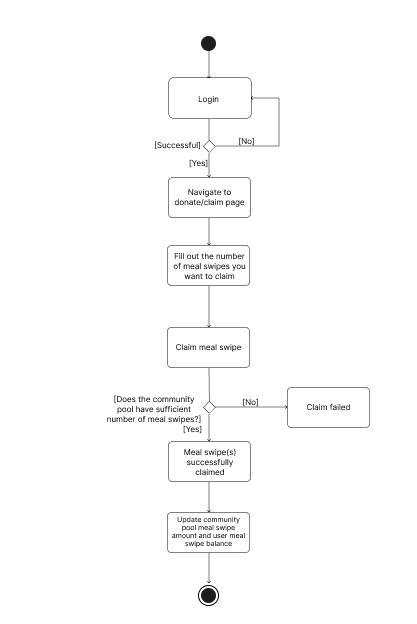
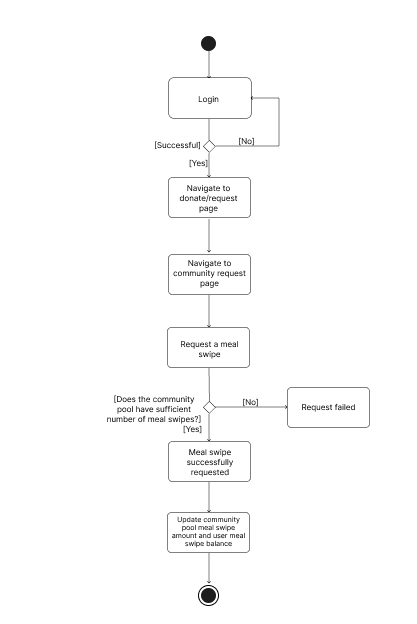
updated uml diagrams and user stories in readme

diff --git a/README.md b/README.md
@@ -46,7 +46,7 @@ This app should be a simple tool, capable of P2P sending and P2E donating of mea
 
 - As an NYU student, I want to donate meal swipes to the whole NYU community so that others can get a meal if needed.
 
-- As an NYU student, I want to individually send meal swipes to friends so that they can have more meals when hungry. 
+- As an NYU student, I want to individually send meal swipes to friends so that they can have more meals when hungry.
 
 - As a community-driven student, I want to see the amount of donations so that other students and I are more encouraged to make more donations to help others.
 
@@ -56,11 +56,11 @@ This app should be a simple tool, capable of P2P sending and P2E donating of mea
 
 - As an NYU student, I want to have a tool that tells me if I have enough meal swipes for the rest of the semester based on my past spending history so that I can plan to donate or claim meal swipes from the meal donation pool.
 
-- As an NYU student, I want to schedule my meal swipe donations so that I can donate meal swipes automatically and periodically.
+- As an NYU student, I want to see the dates of my meal swipe transactions so that I can keep track of my spending habit.
 
 - As an NYU student, I want to specify the number of meal swipes to donate so that I can donate multiple meal swipes at a time.
 
-- As an NYU student facing food insecurity, I want to claim meal swipes from the meal donation pool so that I don’t run out of meals.
+- As an NYU student facing food insecurity, I want to request meal swipes from the meal donation pool so that I don’t run out of meals.
 
 ## Activity Diagrams
 
